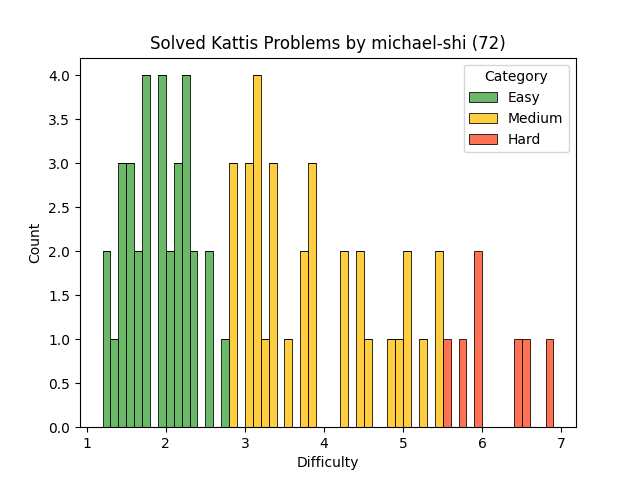
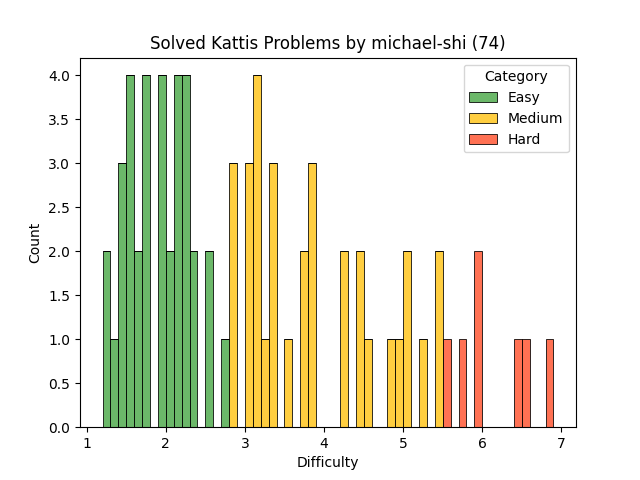
update readme

Changed region(s): [[0.25, 0.1562, 0.3125, 0.3438], [0.1875, 0.1562, 0.2188, 0.3438], [0.75, 0.0625, 0.7812, 0.125]]

diff --git a/graph.py b/graph.py
@@ -10,7 +10,7 @@ desc = """
 Problems I have solved on [Kattis](https://open.kattis.com) for VT-ICPC.\n
 Make sure to check this only if you have no furthur ideas.\n
 "The ideal problem is the problem you can barely solve given an infinite amount of time"\n
-\t\t- Walden Yan (IOI Gold Medalist)
+- Walden Yan (IOI Gold Medalist)
 """
 
 table = """

diff --git a/README.md b/README.md
@@ -1,8 +1,12 @@
 # mfshi03 Kattis Problems
 
 Problems I have solved on [Kattis](https://open.kattis.com) for VT-ICPC.
-- Make sure to check this only if you have no furthur ideas.
-- "The ideal problem is the problem you can barely solve given an infinite amount of time" - Walden Yan (IOI Gold Medalist)
+
+Make sure to check this only if you have no furthur ideas.
+
+"The ideal problem is the problem you can barely solve given an infinite amount of time"
+
+- Walden Yan (IOI Gold Medalist)
 ### Problem Difficulty
 ![](plot.png)
 <table>
@@ -161,6 +165,12 @@ Problems I have solved on [Kattis](https://open.kattis.com) for VT-ICPC.
 <td>Eye of Sauron</td>
 <td>1.5</td>
 <td>https://open.kattis.com/problems/eyeofsauron</td>
+</tr>
+
+<tr>
+<td>Fading Wind</td>
+<td>1.5</td>
+<td>https://open.kattis.com/problems/fadingwind</td>
 </tr>
 
 <tr>
@@ -371,6 +381,12 @@ Problems I have solved on [Kattis](https://open.kattis.com) for VT-ICPC.
 <td>Stopwatch</td>
 <td>1.6</td>
 <td>https://open.kattis.com/problems/stopwatch</td>
+</tr>
+
+<tr>
+<td>Streets Ahead</td>
+<td>2.1</td>
+<td>https://open.kattis.com/problems/streetsahead</td>
 </tr>
 
 <tr>
